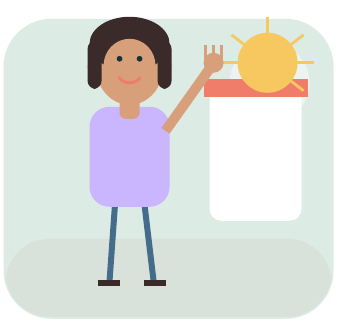
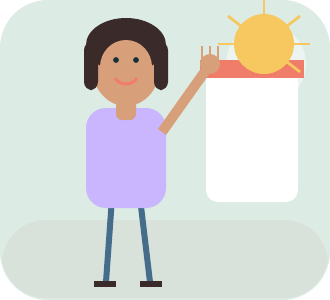
fix(illustrations): frame bonjour with safe margins

Changed region(s): [[0.0, 0.0, 1.0, 1.0]]

diff --git a/scripts/render_illustrations.py b/scripts/render_illustrations.py
@@ -31,14 +31,14 @@ def load_drawings():
     return namespace
 
 
-def render_family_scene(name, aunt):
-    drawings = load_drawings()
+def render_scene(name, draw_scene):
+    """Render one shared vector scene to a high-resolution PNG."""
     WORK_DIR.mkdir(parents=True, exist_ok=True)
     pdf_path = WORK_DIR / f"{name}.pdf"
     png_prefix = WORK_DIR / name
 
     document = canvas.Canvas(str(pdf_path), pagesize=SCENE_SIZE)
-    drawings["draw_family_scene"](document, 0, 0, aunt=aunt)
+    draw_scene(document)
     document.save()
 
     if not shutil.which("pdftoppm"):
@@ -52,10 +52,17 @@ def render_family_scene(name, aunt):
 
 
 def main():
-    render_family_scene("tante", aunt=True)
-    render_family_scene("oncle", aunt=False)
+    drawings = load_drawings()
+    render_scene(
+        "tante", lambda document: drawings["draw_family_scene"](document, 0, 0, aunt=True)
+    )
+    render_scene(
+        "oncle", lambda document: drawings["draw_family_scene"](document, 0, 0, aunt=False)
+    )
+    render_scene("the", lambda document: drawings["draw_tea"](document, 0, 0))
+    render_scene("bonjour", lambda document: drawings["draw_hello"](document, 0, 0))
     shutil.rmtree(WORK_DIR, ignore_errors=True)
-    print("Rendered tante.png and oncle.png.")
+    print("Rendered tante.png, oncle.png, the.png and bonjour.png.")
 
 
 if __name__ == "__main__":

diff --git a/scripts/generate_pdf.py b/scripts/generate_pdf.py
@@ -186,7 +186,7 @@ def draw_hello(c, x, y):
     c.circle(x + 132, y + 128, 15, stroke=0, fill=1)
     for dx, dy in [(0,23),(18,14),(23,0),(18,-14),(-18,14),(-23,0)]:
         line(c, x + 132, y + 128, x + 132 + dx, y + 128 + dy, YELLOW, 1.4)
-    draw_human(c, x + 63, y + 27, LAVENDER, woman=True, wave=True)
+    draw_human(c, x + 63, y + 17, LAVENDER, woman=True, wave=True)
 
 
 def entry(c, y, number, word, article, ipa, sentence, hint, kind):
